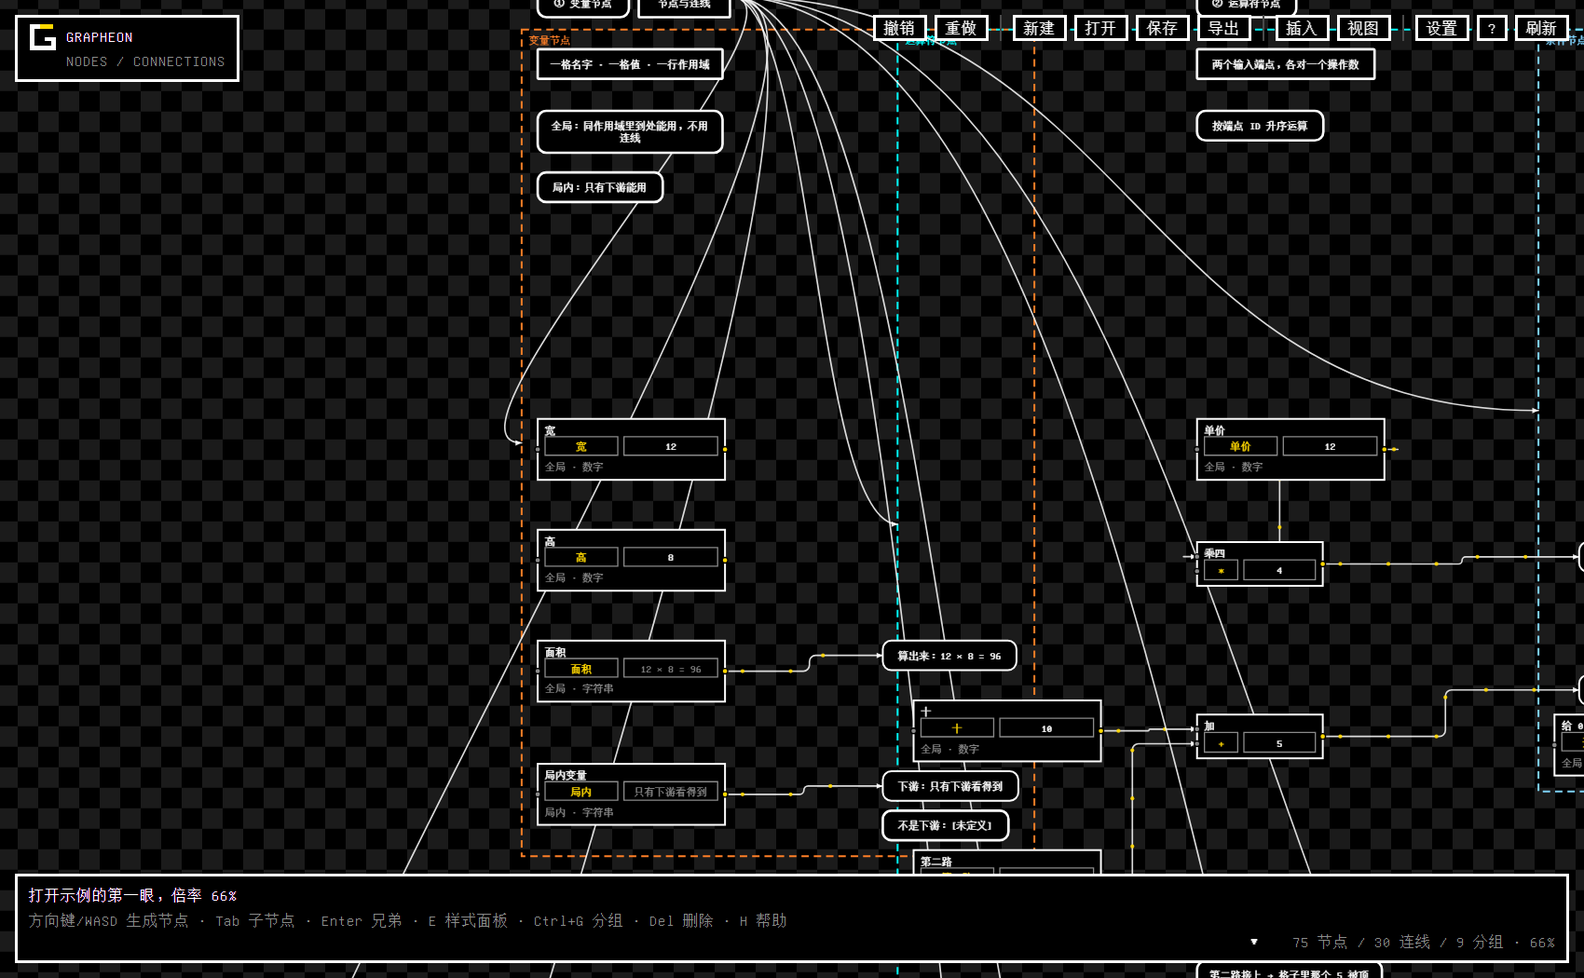
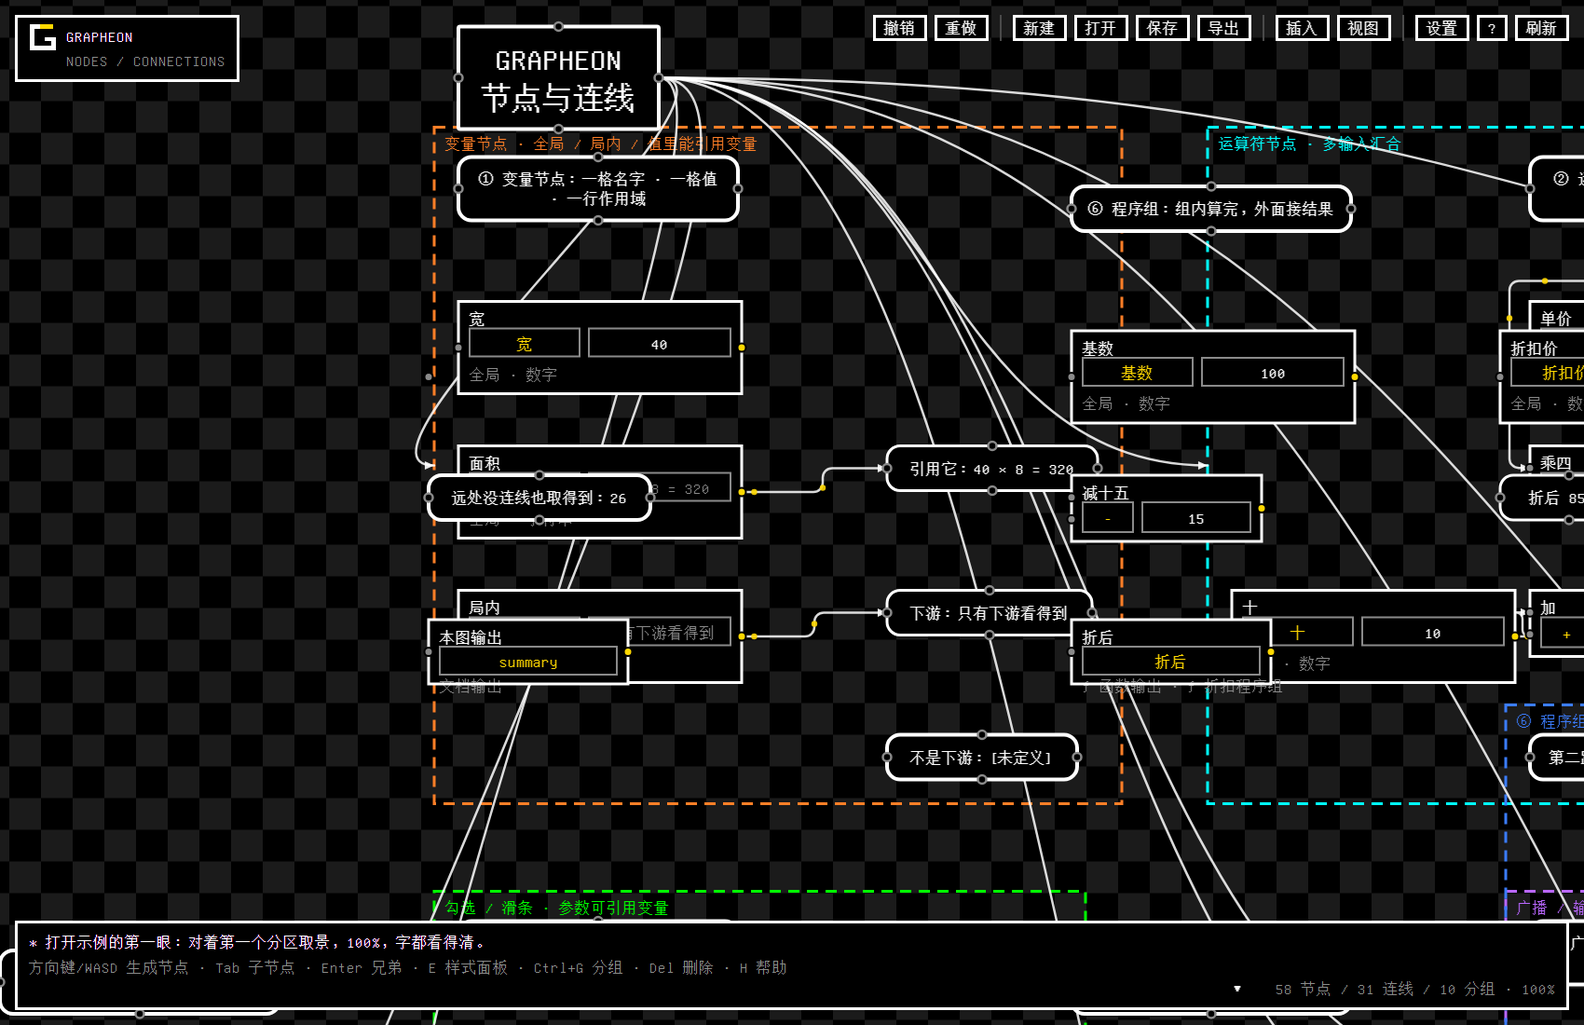
重做示例文档：九个分区，程序节点为主线
结构（3×3 网格，每格一个分区）：

  ① 变量节点    名字格 / 值格 / 作用域；值里能引用变量；全局 vs 局内
  ② 运算符节点  端点按 ID 升序各对一个操作数；第二路接上顶掉格子值
  ③ 条件节点    输入为 1 → 所填的值，否则「无」
  ④ 勾选 / 滑条 上下限和步长都写 {变量}（改「宽」这里跟着变）
  ⑤ 广播 / 输出 广播节点右上角 wifi；远处零连线就能引用
  ⑥ 程序组      外层分区框里**嵌套**一个 ƒ 程序组
  ⑦ 外观节点    字号写 {倍数} —— 数值参数可引用变量
  ⑧ 普通节点    形状 / 尺寸 / 样式 / 组件；四条边各一个连接端点
  ⑨ 表格节点    格子里的字也能引用变量

布局上踩过的两个坑（都写进注释了）：

1. 列距必须大于「一格往两边伸出去的总宽」。一格 ≈ 2*460 + 420 = 1340，
   原来用 1000，② 里那个往左偏的「十」直接扎进了 ① 的地盘，两个框叠上。
   现在列距 1150，并且把往左偏的那一列限制在 ±(DX+140) 以内。
2. ⑥ 里原本放了**两个平级分组**（ƒ程序组 + 输出节点），框必然叠。
   改成外层分区框里嵌套 ƒ程序组 —— 顺带把嵌套分组也演示到。

另外这一轮有个教训：我写的布局检查脚本自己错了两次
（一次把 nodeBox 传了 id 字符串、一次把嵌套分组也算成「重叠」），
两次都让我对着正确的布局查了半天。**先用坐标打印确认，再改代码。**

diff --git a/src/app/demo.js b/src/app/demo.js
@@ -20,215 +20,204 @@ function demoDoc(){
     nodes.push(n);
     return n;
   };
-  const E = (a, b, extra) => {
-    const e = normalizeEdge(Object.assign({ id:'de' + (++eid), s:a.id, t:b.id }, extra || {}));
+  const E = (a, b) => {
+    const e = normalizeEdge({ id:'de' + (++eid), s:a.id, t:b.id });
     edges.push(e);
     return e;
   };
-  /* 一个变量 / 控件节点 */
-  const V = (text, x, y, def) => N(text, x, y, { kind:'var', varDef:def });
+  const V = (text, x, y, def) => N(text, x, y, { kind:'var', varDef:normalizeVarDef(def) });
   const OP = (text, x, y, op, operand) => N(text, x, y, { kind:'op', opDef:{ op, operand } });
-  const OUT = (text, x, y, name) => N(text, x, y, { kind:'out', outDef:{ name } });
-  /* 一条竖列的说明文字 */
-  const notes = (items, x, y, step) =>
-    items.map((t, i) => N(t, x, y + i * (step || 46), { shape:'rect' }));
-  /* 一个功能组：把成员装进去 */
-  const groupOf = (title, color, members) => {
+  const OUT = (text, x, y, name) => N(text, x, y, { kind:'out', outDef:normalizeOutDef({ name }) });
+  /* 程序节点（外观算符） */
+  const PG = (text, x, y, op, key, mode, value) =>
+    N(text, x, y, { kind:'program', program:normalizeProgram({ op, key, mode, value }) });
+  const groupOf = (title, color, members, isFn) => {
     const g = { id:'dg' + (groups.length + 1), title, members:members.map(m => m.id),
-                color, x:0, y:0, w:10, h:10, collapsed:false, isFunction:false };
+                color, x:0, y:0, w:10, h:10, collapsed:false, isFunction:!!isFn };
     groups.push(g);
     return g;
   };
-  /* 分区小标题 */
   const head = (text, x, y) => N(text, x, y, { shape:'round' });
-  void 0;
 
-  /* ==================== 根 ==================== */
-  const root = N('GRAPHEON\n节点与连线', -2050, -720, { w:0, h:0 });
+  /* ---------------- 版面 ---------------- */
+  /* ⚠ 列距要比「一格往两边伸出去的总宽」还大：
+       左边那一列（x - DX）和右边那一列（x + DX + 节点宽）都要算进去。
+       一格实际占用 ≈ 2*460 + 420 = 1340，所以列距 1150 还不够 ——
+       实测 1000 的时候「变量节点」和「运算符节点」的框直接叠上了。
+       现在把「往左偏的那一列」限制在 ±(DX+140) 以内，列距 1150 才够。 */
+  const CX = [-1150, 0, 1150];
+  const RY = [-620, 200, 1020];
+  const DX = 460;                   // 一格之内「结果」那一列相对左边那列的偏移
+  const DY = 155;                   // 格内行距
+
+  const root = N('GRAPHEON\n节点与连线', CX[0], RY[0] - 140, { w:0, h:0 });
   root.big = true;
 
-  /* 版面：3 列，每列一个分区 */
-  // 版面：3 列。间距留得很宽 —— 程序节点本身带盒子，挤在一起会互相压。
-  const CX = [-2150, -1080, -60];
-  const CW = 1020;
+  /* ============ ① 变量节点 ============ */
+  {
+    const x = CX[0], y = RY[0];
+    const h = head('① 变量节点：一格名字 · 一格值 · 一行作用域', x, y);
+    const k = V('宽', x, y + DY, { name:'宽', value:'40', type:'number', scope:'global' });
+    const area = V('面积', x, y + DY * 2,
+      { name:'面积', value:'{宽} × 8 = 320', type:'string', scope:'global' });
+    const show = N('引用它：{面积}', x + DX, y + DY * 2, { shape:'round' });
+    E(area, show);
+    const lc = V('局内', x, y + DY * 3,
+      { name:'局内', value:'只有下游看得到', type:'string', scope:'local' });
+    const down = N('下游：{局内}', x + DX, y + DY * 3, { shape:'round' });
+    const far = N('不是下游：{局内}', x + DX, y + DY * 4, { shape:'round' });
+    E(lc, down);
+    groupOf('变量节点 · 全局 / 局内 / 值里能引用变量', '#ff7f27',
+      [h, k, area, show, lc, down, far]);
+  }
 
-  /* ============================================================
-     ① 变量节点
-     ============================================================ */
-  const h1 = head('① 变量节点', CX[0], -700);
-  const n1a = N('一格名字 · 一格值 · 一行作用域', CX[0], -600);
-  const n1b = N('全局：同作用域里到处能用，不用连线', CX[0], -500, { shape:'round' });
-  const n1c = N('局内：只有下游能用', CX[0], -400, { shape:'round' });
-  const vWide = V('宽', CX[0], 0, { name:'宽', value:'12', type:'number', scope:'global' });
-  const vHigh = V('高', CX[0], 180, { name:'高', value:'8', type:'number', scope:'global' });
-  const vArea = V('面积', CX[0], 360,
-    { name:'面积', value:'{宽} × {高} = 96', type:'string', scope:'global' });
-  const areaOut = N('算出来：{面积}', CX[0] + 560, 360, { shape:'round' });
-  E(vArea, areaOut);
-  const vLocal = V('局内变量', CX[0], 560, { name:'局内', value:'只有下游看得到', type:'string', scope:'local' });
-  const localDown = N('下游：{局内}', CX[0] + 560, 560, { shape:'round' });
-  E(vLocal, localDown);
-  const localFar = N('不是下游：{局内}', CX[0] + 560, 660, { shape:'round' });
-  const g1 = groupOf('变量节点', '#ff7f27',
-    [n1a, n1b, n1c, vWide, vHigh, vArea, areaOut, vLocal, localDown, localFar]);
+  /* ============ ② 运算符节点 ============ */
+  {
+    const x = CX[1], y = RY[0];
+    const h = head('② 运算符节点：端点按 ID 升序各对一个操作数', x, y);
+    const price = V('单价', x, y + DY, { name:'单价', value:'12', type:'number', scope:'global' });
+    const mul = OP('乘四', x, y + DY * 2, '*', '4');
+    const total = N('合计 {单价} 元', x + DX, y + DY * 2, { shape:'round' });
+    E(price, mul); E(mul, total);
+    const ten = V('十', x - 320, y + DY * 3, { name:'十', value:'10', type:'number', scope:'global' });
+    const add = OP('加', x, y + DY * 3, '+', '5');
+    const both = N('两路都接：10 + 7', x + DX, y + DY * 3, { shape:'round' });
+    E(ten, add); E(add, both);
+    const note = N('第二路接上 → 格子里的 5 被顶掉', x, y + DY * 4, { shape:'round' });
+    groupOf('运算符节点 · 多输入汇合', '#00ffff',
+      [h, price, mul, total, ten, add, both, note]);
+  }
 
-  /* ============================================================
-     ② 运算符节点
-     ============================================================ */
-  const h2 = head('② 运算符节点', CX[1], -700);
-  const n2a = N('两个输入端点，各对一个操作数', CX[1], -600);
-  const n2b = N('按端点 ID 升序运算', CX[1], -500, { shape:'round' });
-  const vPrice = V('单价', CX[1], 0, { name:'单价', value:'12', type:'number', scope:'global' });
-  const opMul = OP('乘四', CX[1], 200, '*', '4');
-  const total = N('合计 {单价} 元', CX[1] + 620, 200, { shape:'round' });
-  E(vPrice, opMul); E(opMul, total);
-  // 第二路接上 → 顶掉格子里那个 4
-  const vSecond = V('第二路', CX[1] - 460, 700, { name:'第二路', value:'7', type:'number', scope:'global' });
-  const opAdd = OP('加', CX[1], 480, '+', '5');
-  const addOut = N('两路都接：10 + 7', CX[1] + 620, 480, { shape:'round' });
-  const vTen = V('十', CX[1] - 460, 480, { name:'十', value:'10', type:'number', scope:'global' });
-  E(vTen, opAdd); E(opAdd, addOut);
-  const eSecond = E(vSecond, opAdd);
-  // 把第二路钉到 2 号端点
-  if (eSecond){ eSecond.bPort = 2; eSecond.bSide = 'l'; }
-  const n2c = N('第二路接上 → 格子里那个 5 被顶掉', CX[1], 880, { shape:'round' });
-  const g2 = groupOf('运算符节点', '#00ffff',
-    [n2a, n2b, vPrice, opMul, total, vSecond, opAdd, addOut, vTen, n2c]);
+  /* ============ ③ 条件节点 ============ */
+  {
+    const x = CX[2], y = RY[0];
+    const h = head('③ 条件节点：输入为 1 → 所填的值，否则 →「无」', x, y);
+    const one = V('给 1', x, y + DY, { name:'开关一', value:'1', type:'number', scope:'global' });
+    const on = V('通', x + DX, y + DY,
+      { name:'通', value:'条件成立', type:'string', scope:'global', control:'cond' });
+    const onOut = N('收到：{通}', x + DX + 360, y + DY, { shape:'round' });
+    E(one, on); E(on, onOut);
+    const zero = V('给 0', x, y + DY * 2,
+      { name:'开关零', value:'0', type:'number', scope:'global' });
+    const off = V('不通', x + DX, y + DY * 2,
+      { name:'不通', value:'条件不成立', type:'string', scope:'global', control:'cond' });
+    const offOut = N('收到：{不通}', x + DX + 360, y + DY * 2, { shape:'round' });
+    E(zero, off); E(off, offOut);
+    groupOf('条件节点', '#7fd4ff', [h, one, on, onOut, zero, off, offOut]);
+  }
 
-  /* ============================================================
-     ③ 条件节点
-     ============================================================ */
-  const h3 = head('③ 条件节点', CX[2], -700);
-  const n3a = N('一个输入、一个输出', CX[2], -600);
-  const n3b = N('输入为 1 → 输出所填的值；否则 → 输出「无」', CX[2], -500, { shape:'round' });
-  const vOne = V('给 1', CX[2], 0, { name:'开关一', value:'1', type:'number', scope:'global' });
-  const cdOn = V('通', CX[2], 200,
-    { name:'通', value:'条件成立', type:'string', scope:'global', control:'cond' });
-  const onOut = N('收到：{通}', CX[2] + 560, 200, { shape:'round' });
-  E(vOne, cdOn); E(cdOn, onOut);
-  const vZero = V('给 0', CX[2] - 440, 480, { name:'开关零', value:'0', type:'number', scope:'global' });
-  const cdOff = V('不通', CX[2], 480,
-    { name:'不通', value:'条件不成立', type:'string', scope:'global', control:'cond' });
-  const offOut = N('收到：{不通}', CX[2] + 560, 480, { shape:'round' });
-  E(vZero, cdOff); E(cdOff, offOut);
-  const g3 = groupOf('条件节点', '#7fd4ff', [n3a, n3b, vOne, cdOn, onOut, vZero, cdOff, offOut]);
+  /* ============ ④ 勾选 / 滑条 ============ */
+  {
+    const x = CX[0], y = RY[1];
+    const h = head('④ 控件：勾选 / 滑条（上下限也能写 {变量}）', x, y);
+    const wide = V('宽', x, y + DY, { name:'宽', value:'40', type:'number', scope:'global' });
+    const pick = V('配料', x, y + DY * 2,
+      { name:'配料', type:'string', scope:'global', control:'check',
+        options:['牛肉', '香菜', '辣椒'], picked:[0, 2] });
+    const picked = N('已选：{配料}', x + DX, y + DY * 2, { shape:'round' });
+    E(pick, picked);
+    /* ★ 上下限 / 步长都引用变量 —— 改「宽」这里跟着变 */
+    const vol = V('音量', x, y + DY * 3,
+      { name:'音量', value:'50', type:'number', scope:'global', control:'slider',
+        min:'{宽}', max:'200', step:'{宽}' });
+    const volOut = N('当前 {音量}', x + DX, y + DY * 3, { shape:'round' });
+    E(vol, volOut);
+    groupOf('勾选 / 滑条 · 参数可引用变量', '#00ff00',
+      [h, wide, pick, picked, vol, volOut]);
+  }
 
-  /* ============================================================
-     ④ 广播节点
-     ============================================================ */
-  const Y2 = 1280;
-  const h4 = head('④ 广播节点', CX[0], Y2);
-  const n4a = N('把输入值变成全局变量 · 右上角那个 wifi 就是它', CX[0], Y2 + 80, { shape:'round' });
-  const vTemp = V('温度', CX[0] - 420, Y2 + 260, { name:'温度', value:'26', type:'number', scope:'global' });
-  const bc = N('广播', CX[0] + 220, Y2 + 240,
-    { kind:'broadcast', varDef:{ name:'温度广播', value:'', type:'string', scope:'global' } });
-  E(vTemp, bc);
-  const farUse = N('远处没连线也取得到：{温度广播}', CX[0] + 220, Y2 + 440, { shape:'round' });
-  const g4 = groupOf('广播节点', '#b967ff', [n4a, vTemp, bc, farUse]);
+  /* ============ ⑤ 广播 / 输出 ============ */
+  {
+    const x = CX[1], y = RY[1];
+    const h = head('⑤ 广播节点：输入值变全局变量（右上角 wifi）', x, y);
+    const temp = V('温度', x, y + DY, { name:'温度', value:'26', type:'number', scope:'global' });
+    const bc = N('广播', x + DX, y + DY,
+      { kind:'broadcast', varDef:normalizeVarDef({ name:'温度广播', value:'', type:'string', scope:'global' }) });
+    E(temp, bc);
+    const use = N('远处没连线也取得到：{温度广播}', x + DX, y + DY * 2, { shape:'round' });
+    const out2 = OUT('本图输出', x + DX, y + DY * 3, 'summary');
+    groupOf('广播 / 输出节点', '#b967ff', [h, temp, bc, use, out2]);
+  }
 
-  /* ============================================================
-     ⑤ 勾选 / 滑条
-     ============================================================ */
-  const h5 = head('⑤ 勾选 / 滑条', CX[1], Y2);
-  const n5a = N('点一下就改值，引用它的地方跟着变', CX[1], Y2 + 80, { shape:'round' });
-  const vPick = V('配料', CX[1], Y2 + 260,
-    { name:'配料', type:'string', scope:'global', control:'check',
-      options:['牛肉', '香菜', '辣椒'], picked:[0, 2] });
-  const pickOut = N('已选：{配料}', CX[1] + 620, Y2 + 260, { shape:'round' });
-  E(vPick, pickOut);
-  const vVol = V('音量', CX[1], Y2 + 520,
-    { name:'音量', type:'number', scope:'global', control:'slider',
-      value:'60', min:0, max:100, step:10 });
-  const volOut = N('当前 {音量}', CX[1] + 620, Y2 + 520, { shape:'round' });
-  E(vVol, volOut);
-  const g5 = groupOf('勾选 / 滑条', '#00ff00', [n5a, vPick, pickOut, vVol, volOut]);
+  /* ============ ⑥ 程序组 ============ */
+  {
+    const x = CX[2], y = RY[1];
+    const h = head('⑥ 程序组：组内算完，外面接结果', x, y);
+    const base = V('基数', x, y + DY, { name:'基数', value:'100', type:'number', scope:'global' });
+    const sub = OP('减十五', x, y + DY * 2, '-', '15');
+    const fnOut = OUT('折后', x, y + DY * 3, '折后');
+    E(base, sub); E(sub, fnOut);
+    /* ★ 外层是**分区框**，里面**嵌套**一个函数组。
+       以前这里放了两个平级分组（ƒ程序组 + 输出节点），两个框必然叠在一起 ——
+       分组本来就是能套娃的，用嵌套才说得清「这个函数组是这一区的一部分」。 */
+    const fg = groupOf('ƒ 折扣程序组', '#b967ff', [base, sub, fnOut], true);
+    const disc = V('折扣价', x + DX, y + DY,
+      { name:'折扣价', value:'0', type:'number', scope:'global' });
+    edges.push(normalizeEdge({ id:'de' + (++eid), s:disc.id, t:fg.id }));
+    const shown = N('折后 {折扣价} 元', x + DX, y + DY * 2, { shape:'round' });
+    E(disc, shown);
+    const outer = groupOf('⑥ 程序组 · 组内算完，外面接结果', '#3b7dff', [h, disc, shown]);
+    outer.members.push(fg.id);          // 嵌套：函数组是这一区的一部分
+  }
 
-  /* ============================================================
-     ⑥ 输出节点 + 程序组
-     ============================================================ */
-  const h6 = head('⑥ 输出节点 + 程序组', CX[2], Y2);
-  const n6a = N('组内算完，外面接它的结果', CX[2], Y2 + 80, { shape:'round' });
-  const fg = { id:'dg' + (groups.length + 1), title:'ƒ 折扣程序组', members:[],
-               color:'#b967ff', x:CX[2], y:Y2 + 150, w:10, h:10, collapsed:false, isFunction:true };
-  groups.push(fg);
-  const vBase = V('基数', CX[2], Y2 + 260, { name:'基数', value:'100', type:'number', scope:'global' });
-  const opSub = OP('减十五', CX[2], Y2 + 480, '-', '15');
-  const outFn = OUT('折后', CX[2], Y2 + 700, '折后');
-  E(vBase, opSub); E(opSub, outFn);
-  fg.members = [vBase.id, opSub.id, outFn.id];
-  const vDisc = V('折扣价', CX[2] + 640, Y2 + 340, { name:'折扣价', value:'0', type:'number', scope:'global' });
-  edges.push(normalizeEdge({ id:'de' + (++eid), s:vDisc.id, t:fg.id }));
-  const shown = N('折后 {折扣价} 元', CX[2] + 640, Y2 + 740, { shape:'round' });
-  E(vDisc, shown);
-  const docOut = OUT('本图输出', CX[2] + 640, Y2 + 900, 'summary');
+  /* ============ ⑦ 外观节点 ============ */
+  {
+    const x = CX[0], y = RY[2];
+    const h = head('⑦ 外观节点：从它拉线到目标，算符就叠过去', x, y);
+    const mult = V('倍数', x - 320, y + DY * 2,
+      { name:'倍数', value:'12', type:'number', scope:'global' });
+    const t1 = N('被改形状', x + DX, y + DY);
+    const p1 = PG('变菱形', x, y + DY, 'shape', 'shape', 'set', 'diamond');
+    E(p1, t1);
+    const t2 = N('被放大', x + DX, y + DY * 2);
+    /* ★ 字号也能写 {变量} —— 面板里那条滑条旁边就是输入框 */
+    const p2 = PG('字号 +{倍数}', x, y + DY * 2, 'style', 'fsPx', 'add', '{倍数}');
+    E(mult, p2); E(p2, t2);
+    const t3 = N('被染色', x + DX, y + DY * 3);
+    const p3 = PG('染成青', x, y + DY * 3, 'style', 'color', 'set', '#00ffff');
+    E(p3, t3);
+    groupOf('外观节点 · 数值参数可引用变量', '#ffd800', [h, mult, t1, p1, t2, p2, t3, p3]);
+  }
 
-  /* ============================================================
-     ⑦ 外观节点 + 优先级
-     ============================================================ */
-  const Y3 = 2560;
-  const h7 = head('⑦ 外观节点 + 优先级', CX[0], Y3);
-  const n7a = N('从它拉一条线到目标，算符就叠过去', CX[0], Y3 + 80, { shape:'round' });
-  const tgtShape = N('被改形状', CX[0] + 480, Y3 + 240);
-  const pgShape = N('变菱形', CX[0] - 420, Y3 + 240,
-    { kind:'program', program:{ op:'shape', key:'shape', mode:'set', value:'diamond' } });
-  E(pgShape, tgtShape);
-  const tgtColor = N('被染色', CX[0] + 480, Y3 + 460);
-  const pgColor = N('染成青', CX[0] - 420, Y3 + 460,
-    { kind:'program', program:{ op:'style', key:'color', mode:'set', value:'#00ffff' } });
-  E(pgColor, tgtColor);
-  const tgtFs = N('被放大', CX[0] + 480, Y3 + 680);
-  const pgFs = N('字号 +16', CX[0] - 420, Y3 + 680,
-    { kind:'program', program:{ op:'style', key:'fsPx', mode:'add', value:'16' } });
-  E(pgFs, tgtFs);
-  const n7b = N('优先级决定叠加顺序：数越大越晚算', CX[0], Y3 + 900, { shape:'round' });
-  const g7 = groupOf('外观节点', '#ffd800',
-    [n7a, tgtShape, pgShape, tgtColor, pgColor, tgtFs, pgFs, n7b]);
+  /* ============ ⑧ 普通节点 ============ */
+  {
+    const x = CX[1], y = RY[2];
+    const h = head('⑧ 普通节点：形状 / 尺寸 / 样式 / 组件', x, y);
+    const a = N('四种形状：矩形 · 圆角 · 菱形 · 椭圆', x, y + DY, { shape:'round' });
+    const b = N('拖右下角改尺寸', x, y + DY * 2, { shape:'ellipse' });
+    const c = N('挂了角标组件', x + DX, y + DY * 2,
+      { components:[{ type:'badge', props:{ text:'★ {音量}', color:'#ffd800' } }] });
+    const d = N('菱形 + 染色 + 半透明', x, y + DY * 3,
+      { shape:'diamond', components:[{ type:'tint', props:{ color:'#b967ff' } },
+                                     { type:'opacity', props:{ value:'0.6' } }] });
+    const e2 = N('自定义描边', x + DX, y + DY * 3,
+      { components:[{ type:'outline', props:{ width:'4', color:'#00ffff' } }] });
+    const note = N('四条边各一个连接端点（空心环）', x, y + DY * 4, { shape:'round' });
+    groupOf('普通节点', '#3b7dff', [h, a, b, c, d, e2, note]);
+  }
 
-  /* ============================================================
-     ⑧ 普通节点的功能（不放快捷键字样）
-     ============================================================ */
-  const h8 = head('⑧ 普通节点能做什么', CX[1], Y3);
-  const shapes = notes([
-    '四种形状：矩形 / 圆角 / 菱形 / 椭圆',
-    '拖右下角自由改尺寸',
-    '样式面板：字体 / 字号 / 字色 / 外框色',
-    '折叠子树：点右上角的小方块',
-    '优先级：和程序节点同一个字段',
-    '组件：角标 / 条件隐藏 / 描边 / 染色 / 透明度 / 线宽',
-    '节点名和变量名是分开的两回事'
-  ], CX[1], Y3 + 80, 100);
-  const cBadge = N('挂了角标组件', CX[1] + 700, Y3 + 80,
-    { components:[{ type:'badge', props:{ text:'★ {音量}', color:'#ffd800' } }] });
-  const cTint = N('染色 + 透明度', CX[1] + 700, Y3 + 280,
-    { components:[{ type:'tint', props:{ color:'#b967ff' } },
-                   { type:'opacity', props:{ value:'0.55' } }] });
-  const cOut = N('自定义描边', CX[1] + 700, Y3 + 480,
-    { components:[{ type:'outline', props:{ width:'4', color:'#00ffff' } }] });
-  const g8 = groupOf('普通节点', '#3b7dff',
-    shapes.concat([cBadge, cTint, cOut]));
+  /* ============ ⑨ 表格节点 ============ */
+  {
+    const x = CX[2], y = RY[2];
+    const h = head('⑨ 表格节点：格子里的字也能引用变量', x, y);
+    const tbl = N('', x, y + DY, {
+      kind:'table',
+      tableDef:normalizeTableDef({ cols:3, rows:4, header:true, cells:[
+        ['项目', '数量', '小计'],
+        ['苹果', '{音量}', '{单价} × {音量}'],
+        ['香蕉', '3', '待算'],
+        ['合计', '', '—']
+      ] }) });
+    const tip = N('选中它 → 行的右侧 / 列的下方亮出加减号', x + DX, y + DY * 3,
+      { shape:'round' });
+    groupOf('表格节点', '#7fd4ff', [h, tbl, tip]);
+  }
 
-  /* ============================================================
-     ⑨ 表格节点
-     ============================================================ */
-  const h9 = head('⑨ 表格节点', CX[2], Y3);
-  const n9a = N('格子里的字也能引用变量 · 每行每列外面各一对加减号', CX[2], Y3 + 80, { shape:'round' });
-  const tbl = N('', CX[2], Y3 + 300, {
-    kind:'table',
-    tableDef:{ cols:3, rows:4, header:true, cells:[
-      ['项目', '数量', '小计'],
-      ['苹果', '{音量}', '{单价} × {音量}'],
-      ['香蕉', '3', '待算'],
-      ['合计', '', '—']
-    ] } });
-  const n9b = N('选中它，行的右侧 / 列的下方会亮出加减号', CX[2], Y3 + 900, { shape:'round' });
-  const g9 = groupOf('表格节点', '#7fd4ff', [n9a, tbl, n9b]);
-
-  /* ==================== 根 → 各分区 ==================== */
+  /* ============ 根 → 各分区 ============ */
   for (const g of groups){
     edges.push(normalizeEdge({ id:'de' + (++eid), s:root.id, t:g.id,
                                route:'curve', aSide:'r', bSide:'l' }));
   }
-  void CW;
   return { v:2, nid, nodes, edges, groups };
 }
 
